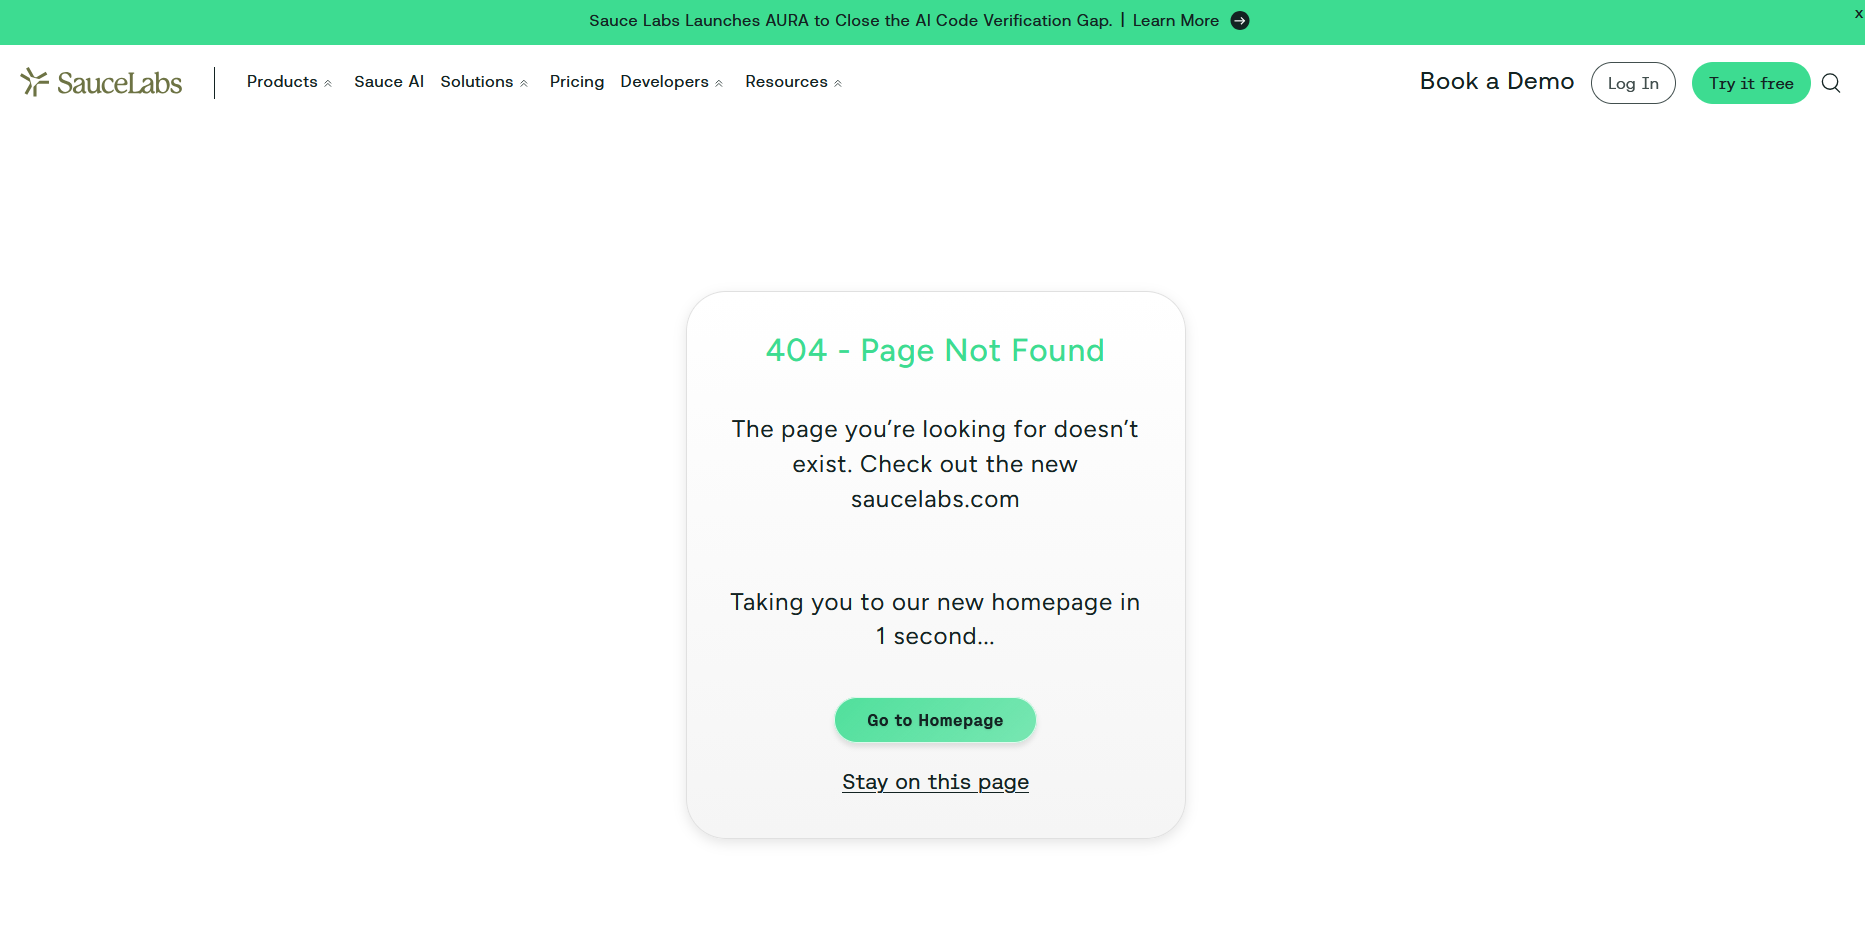
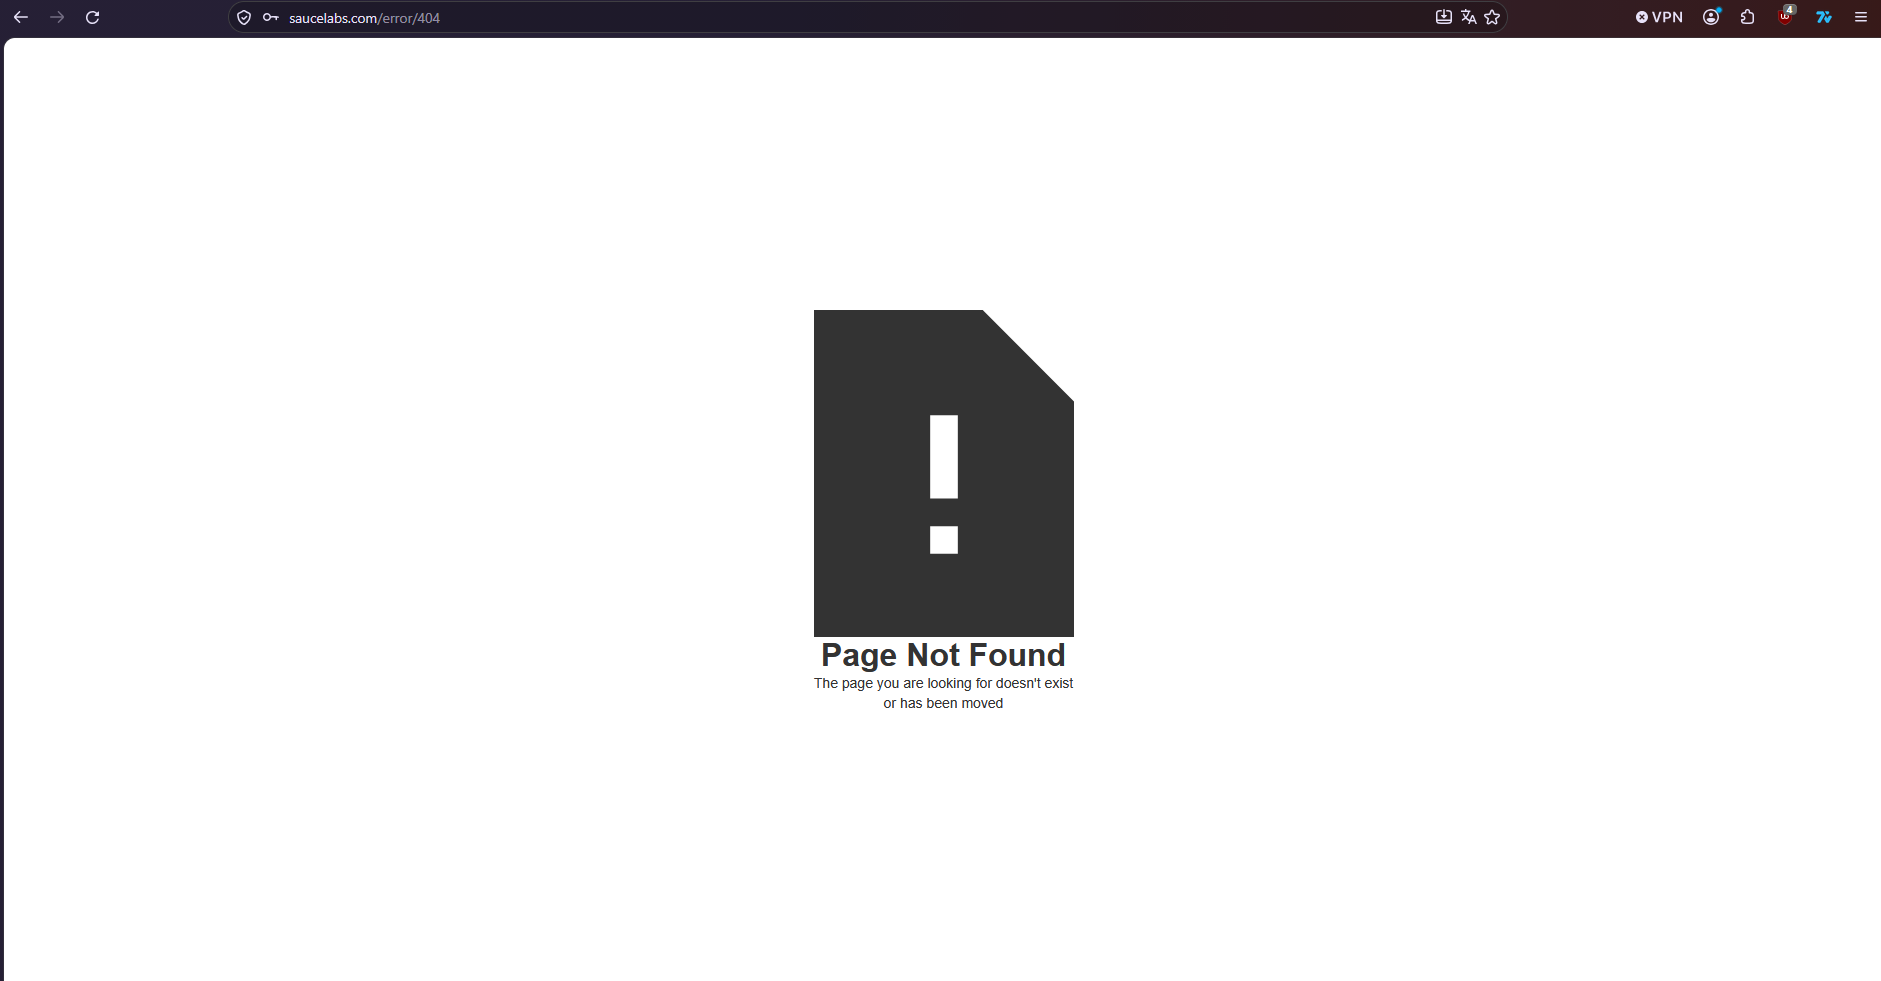
création du dossier 08-Jira et modification du readme

Changed region(s): [[0.0, 0.0, 1.0, 0.123], [0.3732, 0.3075, 0.622, 0.8611]]

diff --git a/README.md b/README.md
@@ -3,7 +3,7 @@
 ![Status](https://img.shields.io/badge/Status-Terminé-success)
 ![ISTQB](https://img.shields.io/badge/ISTQB-Foundation%20Level%20(préparation)-blue)
 ![Automation](https://img.shields.io/badge/Automation-Playwright%20+%20TypeScript-green)
-![CI](https://img.shields.io/badge/CI-GitHub%20Actions-blue)
+[![Playwright Tests](https://github.com/Medhy-c/qa-portfolio-saucedemo/actions/workflows/playwright.yml/badge.svg?branch=main)](https://github.com/Medhy-c/qa-portfolio-saucedemo/actions/workflows/playwright.yml)
 ![API](https://img.shields.io/badge/API-Postman-orange)
 
 ## Présentation
@@ -18,6 +18,7 @@ Ce projet a pour objectif de démontrer mes compétences en :
 - Exécution de tests manuels et reporting
 - Automatisation de tests avec **Playwright + TypeScript**
 - Tests API avec **Postman**
+- Suivi des anomalies avec **Jira**
 - Utilisation de Git / GitHub
 
 ---
@@ -53,6 +54,7 @@ qa-portfolio-saucedemo/
 ├── 05-Automation/              # Tests automatisés Playwright
 ├── 06-Notes-ISTQB/             # Notes d'exploration et techniques
 ├── 07-API-Tests/               # Collection Postman
+├── 08-Jira/                    # Captures du board et des tickets Jira
 └── README.md
 ```
 
@@ -96,6 +98,22 @@ npx playwright install
 | BUG-001 | Last Name écrase First Name (problem_user)    | Majeure  | [Voir le bug](03-Bug-Reports/BUG-001_Checkout_LastName_Overwrite.md) |
 | BUG-002 | Images des produits identiques (problem_user) | Moyenne  | [Voir le bug](03-Bug-Reports/BUG-002_Images_Identiques_problem_user.md) |
 | BUG-003 | Page About renvoie une erreur 404             | Mineure  | [Voir le bug](03-Bug-Reports/BUG-003_About_Page_404.md) |
+
+---
+
+## Gestion des anomalies avec Jira
+
+Les bugs identifiés sont également suivis dans un projet **Jira** (board Kanban, workflow : To Do → In Progress → In Review → Done). Chaque ticket contient l'environnement, les étapes de reproduction, les résultats attendu et obtenu, la priorité, la sévérité et une capture d'écran.
+
+Le projet Jira étant privé, les captures ci-dessous en présentent le contenu.
+
+**Board du projet**
+
+![Board Jira](08-Jira/board.png)
+
+**Exemple de ticket détaillé**
+
+![Exemple de ticket Jira](08-Jira/BUG-001-ticket.png)
 
 ---
 
@@ -170,6 +188,7 @@ La collection Postman est disponible ici :
 - [x] Amélioration du framework (Page Object Model)
 - [x] Intégration GitHub Actions (CI)
 - [x] Ajout de tests API (Postman)
+- [x] Suivi des anomalies dans Jira
 
 ---
 

diff --git a/03-Bug-Reports/BUG-003_About_Page_404.md b/03-Bug-Reports/BUG-003_About_Page_404.md
@@ -4,7 +4,7 @@
 **Détecté par** : Medhy  
 **Environnement** : Chrome / Windows 11  
 **URL** : https://www.saucedemo.com  
-**Compte utilisé** : standard_user / secret_sauce  
+**Compte utilisé** : problem_user / secret_sauce  
 **Sévérité** : Mineure  
 **Priorité** : Basse  
 **Statut** : Nouveau  
@@ -18,7 +18,9 @@ Le lien « About » présent dans le menu latéral redirige vers une page d’er
 
 ### Étapes pour reproduire
 1. Aller sur https://www.saucedemo.com
-2. Se connecter avec un compte valide (ex: `standard_user`)
+2. Se connecter avec :
+   - Username : `problem_user`
+   - Password : `secret_sauce`
 3. Cliquer sur le menu hamburger (en haut à gauche)
 4. Cliquer sur le lien **About**
 
